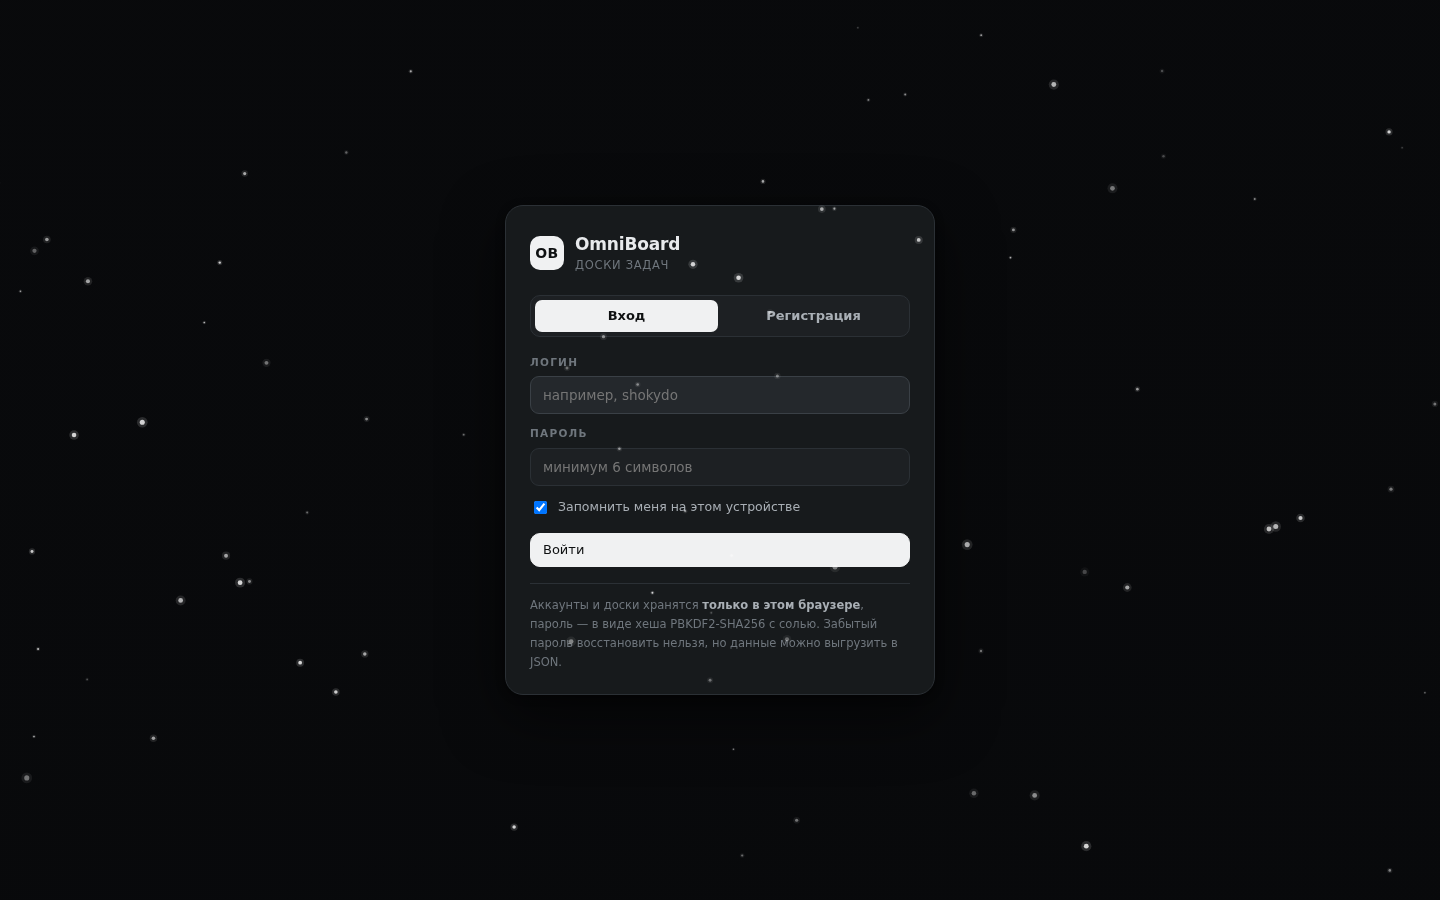
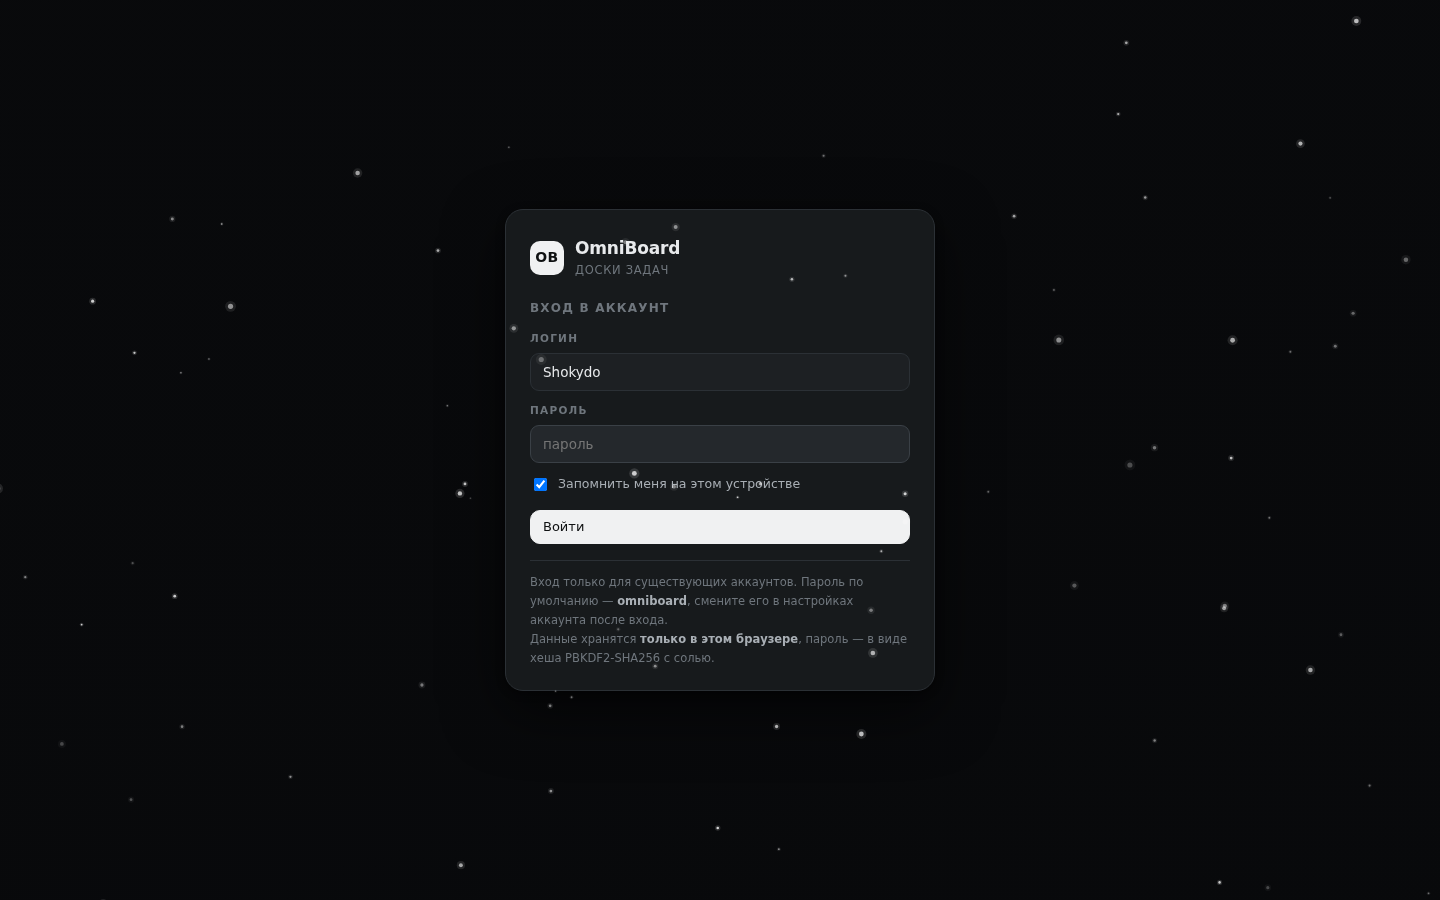
Вход без регистрации, встроенный аккаунт Shokydo и смена пароля

Changed region(s): [[0.3438, 0.2489, 0.6562, 0.7467], [0.5312, 0.3422, 0.5938, 0.3733], [0.875, 0.56, 0.9062, 0.5911]]

diff --git a/index.html b/index.html
@@ -496,6 +496,7 @@ html[data-theme="light"] .auth{background:linear-gradient(165deg, rgba(232,235,2
 .auth-brand .brand-mark{width:34px;height:34px;font-size:14px;border-radius:10px}
 .auth-title{font-size:17px;font-weight:700;letter-spacing:-.01em}
 .auth-sub{font-size:11.5px;color:var(--muted);letter-spacing:.06em;text-transform:uppercase}
+.auth-lead{font-size:12px;letter-spacing:.1em;text-transform:uppercase;color:var(--muted);margin:0 0 14px;font-weight:600}
 .auth-tabs{display:flex;gap:4px;background:var(--panel-2);border:1px solid var(--line);border-radius:10px;padding:4px;margin-bottom:18px}
 .auth-tab{flex:1;height:32px;border-radius:7px;color:var(--text-2);font-size:13px;font-weight:600;transition:.12s}
 .auth-tab:hover{color:var(--text)}
@@ -2317,9 +2318,19 @@ function defaultPrefs(){ return JSON.parse(JSON.stringify(DEFAULT_PREFS)); }
 function dataKey(){ return LS_PREFIX_DATA + (currentUser ? currentUser.id : 'anon'); }
 function prefsKey(){ return LS_PREFIX_PREFS + (currentUser ? currentUser.id : 'anon'); }
 
-function lsGet(k){ try { return localStorage.getItem(k); } catch (e){ return null; } }
-function lsSet(k, v){ try { localStorage.setItem(k, v); return true; } catch (e){ return false; } }
-function lsDel(k){ try { localStorage.removeItem(k); } catch (e){} }
+var memStore = {};
+function lsGet(k){
+  try { var v = localStorage.getItem(k); if (v !== null) return v; } catch (e){}
+  return Object.prototype.hasOwnProperty.call(memStore, k) ? memStore[k] : null;
+}
+function lsSet(k, v){
+  memStore[k] = v;
+  try { localStorage.setItem(k, v); return true; } catch (e){ return false; }
+}
+function lsDel(k){
+  delete memStore[k];
+  try { localStorage.removeItem(k); } catch (e){}
+}
 
 function readAuth(){
   try {
@@ -2342,6 +2353,36 @@ function validatePassword(pw){
   return '';
 }
 
+var DEFAULT_LOGIN = 'shokydo';
+var DEFAULT_NAME = 'Shokydo';
+var DEFAULT_PASSWORD = 'omniboard';
+
+function buildUser(name, login, password, isDefault){
+  var salt = randomHex(16);
+  return {
+    id: 'u_' + Date.now().toString(36) + Math.random().toString(36).slice(2, 7),
+    login: login, name: name, salt: salt, iter: PBKDF2_ITER,
+    hash: pbkdf2Hex(password, salt, PBKDF2_ITER),
+    defaultPw: !!isDefault,
+    created: nowISO(), lastLogin: nowISO()
+  };
+}
+
+/* аккаунт создаётся один раз при первом запуске — регистрации в интерфейсе нет */
+function ensureDefaultAccount(){
+  var auth = readAuth();
+  if (auth.users.length) return false;
+  auth.users.push(buildUser(DEFAULT_NAME, DEFAULT_LOGIN, DEFAULT_PASSWORD, true));
+  writeAuth(auth);
+  return true;
+}
+
+function findUserById(uid){
+  var auth = readAuth(), found = null;
+  auth.users.forEach(function(u){ if (u.id === uid) found = u; });
+  return found;
+}
+
 function registerUser(name, loginRaw, password){
   var login = String(loginRaw || '').trim().toLowerCase();
   var nm = String(name || '').trim() || login;
@@ -2349,13 +2390,7 @@ function registerUser(name, loginRaw, password){
   if (err) return { error: err };
   var auth = readAuth();
   if (auth.users.some(function(u){ return u.login === login; })) return { error: 'Такой логин уже зарегистрирован' };
-  var salt = randomHex(16);
-  var user = {
-    id: 'u_' + Date.now().toString(36) + Math.random().toString(36).slice(2, 7),
-    login: login, name: nm, salt: salt, iter: PBKDF2_ITER,
-    hash: pbkdf2Hex(password, salt, PBKDF2_ITER),
-    created: nowISO(), lastLogin: nowISO()
-  };
+  var user = buildUser(nm, login, password, false);
   auth.users.push(user);
   if (!writeAuth(auth)) return { error: 'Браузер не разрешает сохранить данные (хранилище недоступно)' };
   return { user: user };
@@ -2388,6 +2423,8 @@ function changePassword(uid, currentPassword, newPassword){
   u.salt = randomHex(16);
   u.iter = PBKDF2_ITER;
   u.hash = pbkdf2Hex(newPassword, u.salt, PBKDF2_ITER);
+  u.defaultPw = false;
+  u.pwChangedAt = nowISO();
   if (!writeAuth(auth)) return { error: 'Не удалось сохранить пароль' };
   return { user: u };
 }
@@ -2454,10 +2491,12 @@ function loadPrefs(){
   if (prefs.bg.mode === 'image' && !prefs.bg.image) prefs.bg.mode = 'graphite';
 }
 
+var prefsWarned = false;
 function savePrefs(){
   if (!currentUser) return;
-  if (!lsSet(prefsKey(), JSON.stringify(prefs))){
-    toast('Не удалось сохранить оформление: хранилище переполнено', 4000);
+  if (!lsSet(prefsKey(), JSON.stringify(prefs)) && !prefsWarned){
+    prefsWarned = true;
+    toast('Настройки не сохраняются: хранилище браузера недоступно', 4500);
   }
 }
 
@@ -2628,80 +2667,53 @@ function authError(msg, fieldId){
   if (fieldId){ var f = $('#' + fieldId); if (f) f.classList.add('bad'); }
 }
 
-function showAuth(tab){
+function showAuth(){
   var host = $('#authHost');
   if (!host) return;
   document.body.classList.add('auth-mode');
+  ensureDefaultAccount();
+
   host.innerHTML =
     '<div class="auth" id="authScreen"><div class="auth-card">' +
       '<div class="auth-brand">' +
         '<div class="brand-mark">OB</div>' +
         '<div><div class="auth-title">OmniBoard</div><div class="auth-sub">доски задач</div></div>' +
       '</div>' +
-      '<div class="auth-tabs">' +
-        '<button class="auth-tab" data-auth-tab="login">Вход</button>' +
-        '<button class="auth-tab" data-auth-tab="register">Регистрация</button>' +
-      '</div>' +
+      '<div class="auth-lead">Вход в аккаунт</div>' +
       '<div class="auth-msg" id="authMsg"></div>' +
       '<form id="authForm" novalidate>' +
-        '<div class="field" data-only="register"><label for="auName">Имя</label>' +
-          '<input class="input" id="auName" type="text" placeholder="Как вас зовут" autocomplete="name"></div>' +
         '<div class="field"><label for="auLogin">Логин</label>' +
-          '<input class="input" id="auLogin" type="text" placeholder="например, shokydo" autocomplete="username" autocapitalize="none" spellcheck="false"></div>' +
+          '<input class="input" id="auLogin" type="text" value="' + esc(DEFAULT_NAME) + '" autocomplete="username" autocapitalize="none" spellcheck="false"></div>' +
         '<div class="field"><label for="auPass">Пароль</label>' +
-          '<input class="input" id="auPass" type="password" placeholder="минимум 6 символов" autocomplete="current-password"></div>' +
-        '<div class="field" data-only="register"><label for="auPass2">Повторите пароль</label>' +
-          '<input class="input" id="auPass2" type="password" placeholder="ещё раз" autocomplete="new-password"></div>' +
-        '<label class="checkline" data-only="login"><input type="checkbox" id="auRemember" checked> Запомнить меня на этом устройстве</label>' +
+          '<input class="input" id="auPass" type="password" placeholder="пароль" autocomplete="current-password"></div>' +
+        '<label class="checkline"><input type="checkbox" id="auRemember" checked> Запомнить меня на этом устройстве</label>' +
         '<button class="btn solid auth-submit" type="submit" id="authSubmit">Войти</button>' +
       '</form>' +
-      '<div class="auth-note">Аккаунты и доски хранятся <b>только в этом браузере</b>, пароль — в виде хеша ' +
-        'PBKDF2-SHA256 с солью. Забытый пароль восстановить нельзя, но данные можно выгрузить в JSON.</div>' +
+      '<div class="auth-note">Вход только для существующих аккаунтов. Пароль по умолчанию — ' +
+        '<b>' + esc(DEFAULT_PASSWORD) + '</b>, смените его в настройках аккаунта после входа.<br>' +
+        'Данные хранятся <b>только в этом браузере</b>, пароль — в виде хеша PBKDF2-SHA256 с солью.</div>' +
     '</div></div>';
 
-  var current = tab || 'login';
   var form = $('#authForm');
-
-  function setTab(t){
-    current = t;
-    $$('[data-only]').forEach(function(el){ el.style.display = (el.getAttribute('data-only') === t) ? '' : 'none'; });
-    $$('[data-auth-tab]').forEach(function(b){ b.classList.toggle('active', b.getAttribute('data-auth-tab') === t); });
-    $('#authSubmit').textContent = t === 'register' ? 'Создать аккаунт' : 'Войти';
-    $('#auPass').setAttribute('autocomplete', t === 'register' ? 'new-password' : 'current-password');
-    var box = $('#authMsg'); if (box){ box.classList.remove('show'); }
-    $$('.input').forEach(function(i){ i.classList.remove('bad'); });
-    var focus = t === 'register' ? $('#auName') : $('#auLogin');
-    if (focus) setTimeout(function(){ focus.focus(); }, 40);
-  }
-
-  host.addEventListener('click', function(e){
-    var tabBtn = e.target.closest('[data-auth-tab]');
-    if (tabBtn){ e.preventDefault(); setTab(tabBtn.getAttribute('data-auth-tab')); }
-  });
+  var passInput = $('#auPass');
+  var loginInput = $('#auLogin');
+  setTimeout(function(){ if (passInput) passInput.focus(); }, 60);
 
   form.addEventListener('submit', function(e){
     e.preventDefault();
-    var login = $('#auLogin').value.trim();
-    var pass = $('#auPass').value;
+    var login = loginInput.value.trim();
+    var pass = passInput.value;
     if (!login){ return authError('Введите логин', 'auLogin'); }
     if (!pass){ return authError('Введите пароль', 'auPass'); }
 
-    if (current === 'register'){
-      var p2 = $('#auPass2').value;
-      if (pass !== p2) return authError('Пароли не совпадают', 'auPass2');
-      var r = registerUser($('#auName').value, login, pass);
-      if (r.error) return authError(r.error, 'auLogin');
-      startSession(r.user, true);
-      signIn(r.user, 'Аккаунт создан. Добро пожаловать!');
-    } else {
-      var res = loginUser(login, pass);
-      if (res.error) return authError(res.error, 'auPass');
-      startSession(res.user, $('#auRemember').checked);
-      signIn(res.user, 'С возвращением, ' + (res.user.name || res.user.login));
-    }
-  });
+    var res = loginUser(login, pass);
+    if (res.error) return authError(res.error, 'auPass');
 
-  setTab(current);
+    startSession(res.user, $('#auRemember').checked);
+    signIn(res.user, res.user.defaultPw
+      ? 'Вход выполнен. Смените пароль по умолчанию в настройках аккаунта.'
+      : 'С возвращением, ' + (res.user.name || res.user.login));
+  });
 }
 
 function hideAuth(){
@@ -2729,7 +2741,7 @@ function signOut(){
   renderBoard();
   loadPrefs();
   applyPrefs();
-  showAuth('login');
+  showAuth();
 }
 
 function renderAccountChip(){
@@ -3013,6 +3025,11 @@ function openAccount(){
       '<div class="prefs-row"><div class="pr-main"><div class="prefs-label">Данные</div>' +
         '<div class="prefs-hint">' + boards + ' ' + plural(boards, ['доска', 'доски', 'досок']) + ' · ' +
         tasks + ' ' + plural(tasks, ['задача', 'задачи', 'задач']) + ' · хранятся в этом браузере</div></div></div>' +
+      (rec && rec.defaultPw
+        ? '<div class="prefs-row" style="border-color:var(--line-2)"><div class="pr-main">' +
+            '<div class="prefs-label">Пароль по умолчанию</div>' +
+            '<div class="prefs-hint">Вы входите с паролем по умолчанию — задайте свой ниже.</div></div></div>'
+        : '') +
       '<div class="auth-msg" id="acMsg"></div>' +
       '<div class="sec-title" style="margin:16px 0 8px">Смена пароля</div>' +
       '<div class="field"><label for="acCur">Текущий пароль</label><input class="input" id="acCur" type="password" autocomplete="current-password"></div>' +
@@ -3022,7 +3039,7 @@ function openAccount(){
     '</div>' +
     '<div class="prefs-foot">' +
       '<button class="btn sm" data-acc-act="logout">Выйти</button>' +
-      '<div style="display:flex;gap:8px"><button class="btn sm danger" data-acc-act="delete">Удалить аккаунт</button>' +
+      '<div style="display:flex;gap:8px"><button class="btn sm danger" data-acc-act="reset">Сбросить данные</button>' +
       '<button class="btn solid sm" data-acc-act="close">Готово</button></div>' +
     '</div></div></div>';
 
@@ -3057,30 +3074,33 @@ function openAccount(){
       if (np !== np2){ accMsg('Новые пароли не совпадают'); return; }
       var res = changePassword(currentUser.id, cur, np);
       if (res.error){ accMsg(res.error); return; }
-      $('#acCur').value = ''; $('#acNew').value = ''; $('#acNew2').value = '';
-      accMsg('Пароль изменён', true);
+      openAccount();                       /* перерисовка: уходит предупреждение о пароле по умолчанию */
+      accMsg('Пароль изменён. Используйте его при следующем входе.', true);
       toast('Пароль изменён');
       return;
     }
 
     if (act === 'logout'){ signOut(); return; }
 
-    if (act === 'delete'){
+    if (act === 'reset'){
       askConfirm({
-        title: 'Удалить аккаунт «' + (currentUser.name || currentUser.login) + '»?',
-        text: 'Вместе с аккаунтом будут удалены все доски, задачи и настройки оформления. Действие необратимо.',
-        danger: true, ok: 'Удалить аккаунт'
+        title: 'Сбросить все данные аккаунта?',
+        text: 'Доски, задачи и настройки оформления будут удалены и заменены демо-доской. Аккаунт и пароль останутся.',
+        danger: true, ok: 'Сбросить'
       }).then(function(ok){
         if (!ok) return;
-        deleteAccount(currentUser.id);
-        currentUser = null;
-        closeAccount();
         state = { version: 2, activeBoard: null, boards: [], tasks: {} };
         openTaskId = null;
-        renderSidebar(); renderBoard();
-        loadPrefs(); applyPrefs();
-        showAuth('login');
-        toast('Аккаунт удалён');
+        seed();
+        state.activeBoard = state.boards[0].id;
+        saveNow();
+        prefs = defaultPrefs();
+        savePrefs();
+        closeAccount();
+        applyPrefs();
+        renderAll();
+        renderAccountChip();
+        toast('Данные сброшены');
       });
     }
   });
@@ -3119,6 +3139,7 @@ window.OmniBoard = {
 /* ======================= СТАРТ ======================= */
 (function start(){
   Snow.init();
+  ensureDefaultAccount();
   var sess = readSession();
   if (sess){
     var found = null;
@@ -3132,7 +3153,7 @@ window.OmniBoard = {
   }
   loadPrefs();
   applyPrefs();
-  showAuth('login');
+  showAuth();
 })();
 
 })();

diff --git a/README.md b/README.md
@@ -2,16 +2,17 @@
 
 Канбан-доски для технических задач в одном HTML-файле: аккаунты, доски как в Trello, задачи любой вложенности, редактор текста, изображения, примеры, падающий снег и настраиваемый фон. Без сервера, сборки и зависимостей.
 
-**[Открыть демо](https://shokydo.github.io/OmniBoard/)** · при первом запуске создайте локальный аккаунт (логин + пароль), данные останутся в вашем браузере.
+**[Открыть демо](https://shokydo.github.io/OmniBoard/)** · вход в аккаунт `Shokydo`, пароль по умолчанию `omniboard` (смените его в настройках аккаунта). Всё хранится в вашем браузере.
 
 ![Доска с фоном и снегом](screenshots/07-background-snow.png)
 
 ## Возможности
 
 ### Аккаунты и авторизация
-- Регистрация и вход по логину и паролю, «запомнить меня» на устройстве.
+- Только вход по логину и паролю, «запомнить меня» на устройстве — формы регистрации нет.
+- Аккаунт `Shokydo` создаётся автоматически при первом открытии страницы; пароль по умолчанию — `omniboard`, в интерфейсе об этом есть напоминание, пока пароль не сменён.
 - Пароль хранится как **PBKDF2-SHA256** (12 000 итераций, случайная соль 16 байт) — реализация без внешних библиотек, совпадает с эталоном WebCrypto.
-- В настройках аккаунта: смена имени, смена пароля (с проверкой текущего), выход, удаление аккаунта вместе с данными.
+- В настройках аккаунта: смена имени, смена пароля (с проверкой текущего и снятием флага «пароль по умолчанию»), выход, сброс данных аккаунта.
 - Данные **изолированы по пользователю**: у каждого свои доски, задачи и оформление.
 - Всё локально: аккаунты и доски лежат в `localStorage` браузера. Забытый пароль восстановить нельзя — для переноса есть экспорт JSON.
 
@@ -91,4 +92,4 @@ screenshots/    — скриншоты для README
 
 Один файл, ES5-совместимый JS без сборки и зависимостей. Модель — плоский словарь задач со ссылками `parentId` / `subtasks[]` плюс порядок карточек в колонках. Хеширование — собственная реализация SHA-256/HMAC/PBKDF2 (проверена на векторах NIST и сверена с `crypto.subtle`). Снег — `requestAnimationFrame` + `<canvas>` с DPR-масштабированием. Перетаскивание — pointer-события вместо HTML5 DnD: работает стабильнее и поддерживает тач.
 
-Проверено автотестами на Chromium и jsdom: регистрация, вход, неверный пароль, изоляция данных между пользователями, смена пароля и имени, удаление аккаунта, сохранение сессии, режимы фона, затемнение/размытие, снег, вложенность, форматирование, изображения, drag & drop.
+Проверено автотестами на Chromium и jsdom (49 шагов в трёх наборах): отсутствие регистрации в интерфейсе, вход с паролем по умолчанию, неверный пароль, смена пароля и имени, сброс данных аккаунта, сохранение сессии, режимы фона, затемнение/размытие, снег, вложенность задач, форматирование, изображения, drag & drop.
